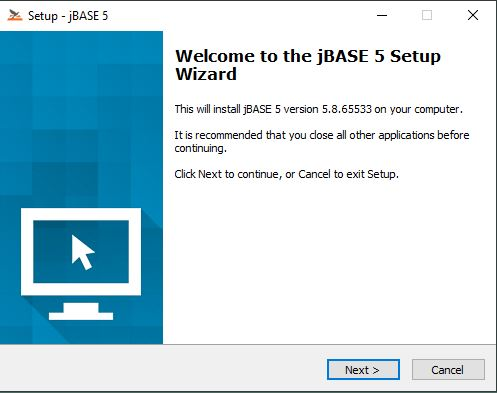
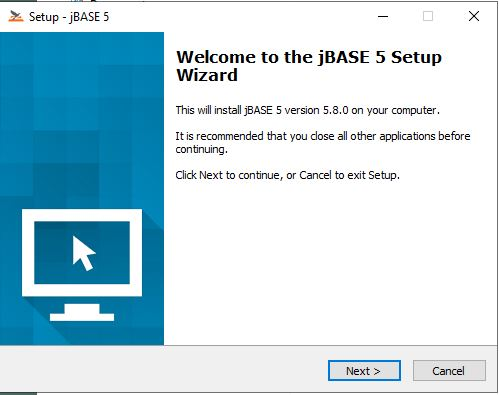
jBASE 5.8.0 updates

diff --git a/site/jbase/administration/installation-guides/linux/upgrading-to-5.8-linux/README.md b/site/jbase/administration/installation-guides/linux/upgrading-to-5.8-linux/README.md
@@ -1,0 +1,27 @@
+# Upgrading to jBASE 5.8 on Linux from an earlier release
+
+<PageHeader />
+
+Documenting an upgrade to jBASE 5.8 from a previous jBASE 5 version could cover many possibilities.
+
+Our initial document will cover a scenario where a recent version of jBASE 5 (i.e. 5.7.0 or later) is installed, and we are installing jBASE as a Linux user with sudo privileges:
+
+![The jBASE 5.8 installer ](./UpgradingtoLinux58_1.jpg)  
+
+![Checking everything](./UpgradingtoLinux58_2.jpg)  
+
+![Getting started](./UpgradingtoLinux58_3.jpg)  
+
+![Company Location](./UpgradingtoLinux58_4.jpg)  
+
+Use the space bar to page through the License Agreement and then accept:
+
+![License Agreement](./UpgradingtoLinux58_5.jpg)  
+
+We will opt for the Advanced install so that we have control over how jBASE 5.8 is installed:
+
+![Type of Installation](./UpgradingtoLinux58_6.jpg)  
+
+Back to [Linux](./../README.md)
+
+<PageFooter />

diff --git a/site/jbase/administration/installation-guides/linux/README.md b/site/jbase/administration/installation-guides/linux/README.md
@@ -3,6 +3,7 @@
 <PageHeader />
 
 [Linux Installation Guide](./linux-installation-guide/README.md)  
+[Upgrading to jBASE 5.8 from a previous version](./upgrading-to-5.8-linux/README.md)  
 
 Back to [Installation Guides](./../README.md)
 
